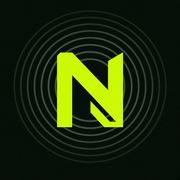
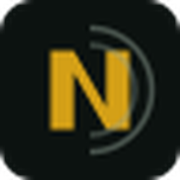
feat(landing): ночная гамма вместо лайма
Тот же золотой акцент, что у Hub и портала сборки.

diff --git a/docs/index.html b/docs/index.html
@@ -6,7 +6,7 @@
   <title>NEVOD · дрон над двором</title>
   <meta name="description" content="Узел во дворе слышит дрон. В браузере — направление. Прошейте DSP и ESP на этой странице. Сообщение уходит в MQTT или Home Assistant. Железо ≈ 9 800 ₽." />
   <meta name="keywords" content="дрон, двор, направление, прошивка, MQTT, Home Assistant, NEVOD" />
-  <meta name="theme-color" content="#0a1210" />
+  <meta name="theme-color" content="#0c1210" />
   <link rel="icon" href="./assets/favicon.ico" sizes="any" />
   <link rel="icon" href="./assets/favicon.svg" type="image/svg+xml" />
   <link rel="apple-touch-icon" href="./assets/apple-touch-icon.png" />
@@ -38,7 +38,7 @@
   <meta name="twitter:card" content="summary_large_image" />
   <link rel="preconnect" href="https://fonts.googleapis.com" />
   <link rel="preconnect" href="https://fonts.gstatic.com" crossorigin />
-  <link href="https://fonts.googleapis.com/css2?family=DM+Sans:opsz,wght@9..40,400;9..40,600;9..40,700&display=swap" rel="stylesheet" />
+  <link href="https://fonts.googleapis.com/css2?family=Instrument+Sans:wght@400;600;700&display=swap" rel="stylesheet" />
   <link rel="stylesheet" href="assets/site.css" />
   <script type="module" src="https://unpkg.com/esp-web-tools@10/dist/web/install-button.js?module"></script>
 </head>

diff --git a/docs/assets/site.css b/docs/assets/site.css
@@ -1,12 +1,12 @@
 /* NEVOD public docs — readable first, especially on a phone */
 :root {
-  --ink: #0a1210;
-  --ink-soft: #121c18;
-  --fog: #e8efe8;
-  --muted: #c5d0c6;
-  --signal: #c8e84a;
+  --ink: #0c1210;
+  --ink-soft: #121a17;
+  --fog: #e7f0ea;
+  --muted: #8aa396;
+  --signal: #d4a017;
   --line: rgba(230, 238, 230, 0.14);
-  --font: "DM Sans", system-ui, -apple-system, "Segoe UI", sans-serif;
+  --font: "Instrument Sans", system-ui, -apple-system, "Segoe UI", sans-serif;
   --measure: 40rem;
   --ease: cubic-bezier(0.22, 1, 0.36, 1);
   color-scheme: dark;
@@ -584,7 +584,7 @@ code {
   display: block;
   height: 100%;
   width: 0%;
-  background: #c8e84a;
+  background: #d4a017;
   transition: width 0.15s ease;
   font-size: 0;
   color: transparent;
